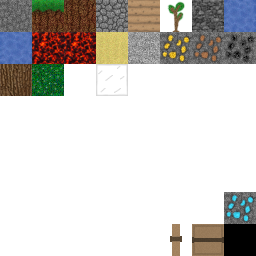
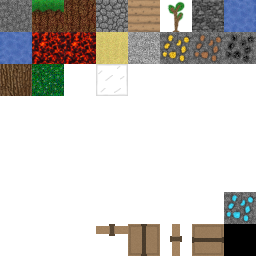
26.07.19 00:52

Changed region(s): [[0.375, 0.875, 0.625, 1.0]]

diff --git a/Player/Scripts/items.js b/Player/Scripts/items.js
@@ -258,6 +258,55 @@ let items = {
         weight: WEIGHT_OF_BLOCKS
     },
 
+    '60':
+    {
+        id: '60',
+        name: 'Closed Trapdoor',
+        type: 'wood',
+        isBlock: true,
+        dropId: '61',
+        durability: 3,
+        isAlwaysGoodDestroy: true,
+        weight: WEIGHT_OF_BLOCKS,
+        isSolid: false,
+        isCollissed: true,
+        isClickable: true,
+        interactFunction : (x, y, layout) => {
+            gameArea.destroyBlock(x, y, layout);
+            gameArea.placeBlock(x, y, layout, 61);
+
+            if (inRange(x + 1, 0, gameArea.height)
+                    && gameArea.map[x + 1][y][layout] === 60) gameArea.interactWithBlock(x + 1, y, layout);
+            if (inRange(x - 1, 0, gameArea.height)
+                    && gameArea.map[x - 1][y][layout] === 60) gameArea.interactWithBlock(x - 1, y, layout);
+        }
+    },
+
+    '61':
+    {
+        id: '61',
+        name: 'Trapdoor',
+        type: 'wood',
+        isBlock: true,
+        dropId: '61',
+        durability: 3,
+        isAlwaysGoodDestroy: true,
+        weight: WEIGHT_OF_BLOCKS,
+        isSolid: true,
+        isCollissed: false,
+        isClickable: true,
+        isCanInteractThrow: true,
+        interactFunction : (x, y, layout) => {
+            gameArea.destroyBlock(x, y, layout);
+            gameArea.placeBlock(x, y, layout, 60);
+
+            if (inRange(x + 1, 0, gameArea.height)
+                    && gameArea.map[x + 1][y][layout] === 61) gameArea.interactWithBlock(x + 1, y, layout);
+            if (inRange(x - 1, 0, gameArea.height)
+                    && gameArea.map[x - 1][y][layout] === 61) gameArea.interactWithBlock(x - 1, y, layout);
+        }
+    },
+
     '62':
     {
         id: '62',
@@ -271,10 +320,9 @@ let items = {
         isSolid: false,
         isCollissed: true,
         isClickable: true,
-        isCanInteractThrow: true,
         interactFunction : (x, y, layout) => {
+            gameArea.destroyBlock(x, y, layout);
             gameArea.placeBlock(x, y, layout, 63);
-
 
             if (inRange(y + 1, 0, gameArea.height)
                     && gameArea.map[x][y + 1][layout] === 62) gameArea.interactWithBlock(x, y + 1, layout);

diff --git a/Player/Scripts/preprocessing.js b/Player/Scripts/preprocessing.js
@@ -100,7 +100,7 @@ image.onload = () => {
 
 			let OnScreen = {};
 			let arrOfChunks = {};
-			let oldTime = 0;
+			let oldTime;
 			let oldTimeOfDay = 0;
 			const deletechunkById = (xLocate, yLocate) => {
 				for (let chunk in arrOfChunks) {
@@ -180,6 +180,11 @@ image.onload = () => {
 					arrOfChunks[xLocate + "x" + yLocate + "xL"].chunk);
 			}
 
+			const bufferOldTime = (newTime) => {
+				oldTime = newTime;
+				requestAnimationFrame(update);
+			}
+
 			const update = (newTime) => {
 				deltaTime = (newTime - oldTime) / 1000;
 				oldTime = newTime;
@@ -237,9 +242,15 @@ image.onload = () => {
 				fpsUpdate();
 				requestAnimationFrame(update);
 			}
+
+			const loadingGame = async () => {
+				await beginPlay();
+				const elem = document.getElementById("loading");
+				elem.parentNode.removeChild(elem);
+			}
 			
 			if (loadExist()) {
-				let wait = async () => {
+				const wait = async () => {
 					return new Promise (responce => {
 						loadWorld('world')
 						.then(result => {
@@ -250,16 +261,14 @@ image.onload = () => {
 				}
 
 				wait().then(() => {
-					beginPlay();
-					const elem = document.getElementById("loading");
-					elem.parentNode.removeChild(elem);
-					requestAnimationFrame(update);
+					loadingGame().then(() => {
+						requestAnimationFrame(bufferOldTime);
+					});
 				});
 			} else {
-				beginPlay();
-				const elem = document.getElementById("loading");
-				elem.parentNode.removeChild(elem);
-				requestAnimationFrame(update);
+				loadingGame().then(() => {
+					requestAnimationFrame(bufferOldTime);
+				});
 			}
 		}
 	}

diff --git a/Player/Scripts/level.js b/Player/Scripts/level.js
@@ -72,6 +72,11 @@ const beginPlay = () => {
     		id: 63,
     		count: 20
     	});
+
+    	player.addToInv({
+    		id: 61,
+    		count: 20
+    	});
     }
 
 	cameraSet(player.x, player.y);
@@ -82,14 +87,7 @@ const beginPlay = () => {
 
 const callSetTimeOfDay = (lengthOfDay) => {
 	setTimeOfDay(currentTime, lengthOfDay);
-	setTimeout(callSetTimeOfDay, 1000, lengthOfDay);  // Затычка вместо \/
-	// if (gameArea.timeOfDay === 1 || gameArea.timeOfDay === 0) {
-	// 	// Вызываем через 1\4 + 1\1000 суток (перед вечером)
-	// 	setTimeout(callSetTimeOfDay, 251 * lengthOfDay, lengthOfDay);
-	// } else {
-	// 	// На смену суток 125 состояний света (вызов через каждые 1\500 суток)
-	// 	setTimeout(callSetTimeOfDay, 2 * lengthOfDay, lengthOfDay);
-	// }
+	setTimeout(callSetTimeOfDay, 1000, lengthOfDay);
 }
 
 // Установка текущего времени суток. При изменении не забудь заглянуть в callSetTimeOfDay
